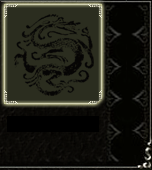
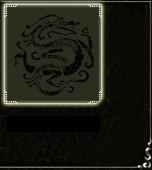
Update some function for draw magatamas

diff --git a/src/ui/dashboard.cpp b/src/ui/dashboard.cpp
@@ -474,13 +474,31 @@ void Dashboard::drawHp(QPainter *painter) const{
     int skip = 6;
     qreal start_x = left_pixmap.width() + middle->rect().width() + 115;
 
-    if(max_hp < 6){
-        int i;
-        for(i=0; i<hp; i++)
-            painter->drawPixmap(start_x + 1, 6  + i * magatama->height() + i * skip, *magatama);
+    QString bgPath = QString("image/system/magatamas/bg%1.png").arg(((max_hp > 3) && (max_hp < 6)) ? "1" : "2");
+    QPixmap hpbg(bgPath);
 
-        for(i=hp; i<max_hp; i++)
-            painter->drawPixmap(start_x + 1, 6  + i * magatama->height() + i * skip, *zero_magatama);
+    if(max_hp > 0)
+        painter->drawPixmap(start_x-115, 0, hpbg);
+
+    if(max_hp < 6){
+        if(max_hp > 3){
+
+            int i;
+            for(i=0; i<hp; i++)
+                painter->drawPixmap(start_x + 1, 6  + i * magatama->height() + i * skip, *magatama);
+
+            for(i=hp; i<max_hp; i++)
+                painter->drawPixmap(start_x + 1, 6  + i * magatama->height() + i * skip, *zero_magatama);
+        }
+        else
+        {
+            int i;
+            for(i=0; i<hp; i++)
+                painter->drawPixmap(start_x + 1, 4  + (i + 1) * magatama->height() + (i + 1) * skip, *magatama);
+
+            for(i=hp; i<max_hp; i++)
+                painter->drawPixmap(start_x + 1, 4  + (i + 1) * magatama->height() + (i + 1) * skip, *zero_magatama);
+        }
     }
     else{
         painter->drawPixmap(start_x + 1, 37, *magatama);

diff --git a/src/ui/roomscene.cpp b/src/ui/roomscene.cpp
@@ -3496,8 +3496,12 @@ void RoomScene::animateHpChange(const QString &name, const QStringList &args)
             i+=hp-delta;
 
             QPoint pos;
-            if(max_hp < 6)
-                pos = QPoint(start_x, skip * (i+1) + i * width - 2);
+            if(max_hp < 6){
+                if(max_hp < 4)
+                    pos = QPoint(start_x, skip * (i+2) + (i+1) * width - 2);
+                else
+                    pos = QPoint(start_x, skip * (i+1) + i * width - 2);
+            }
             else
                 pos = QPoint(start_x, 35);
             pos.rx() += dashboard->scenePos().x();
